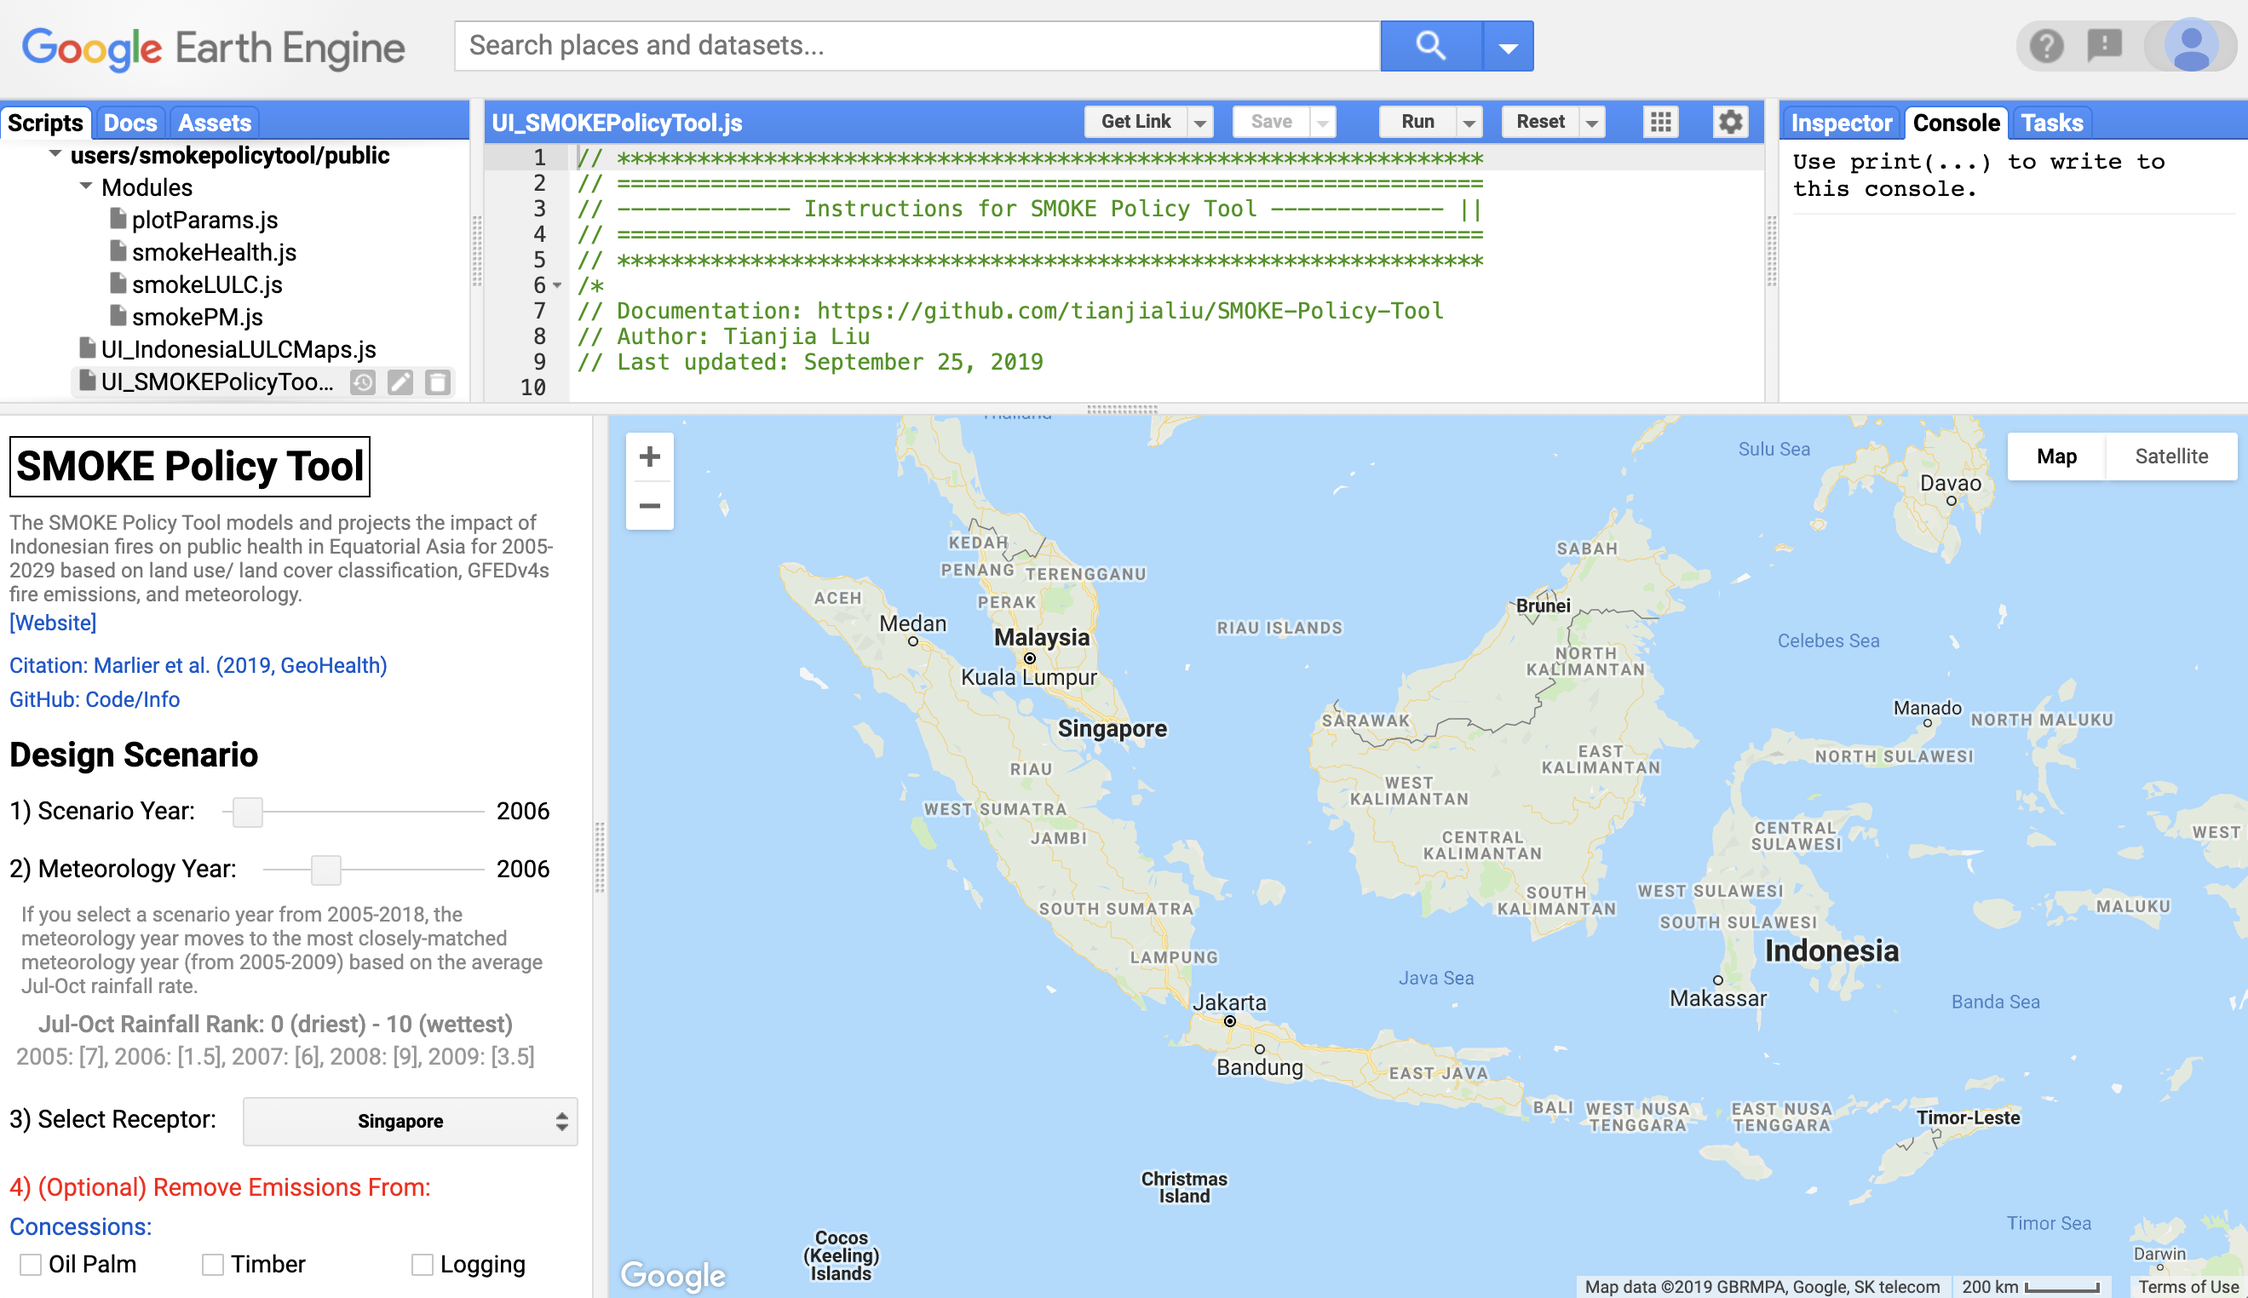
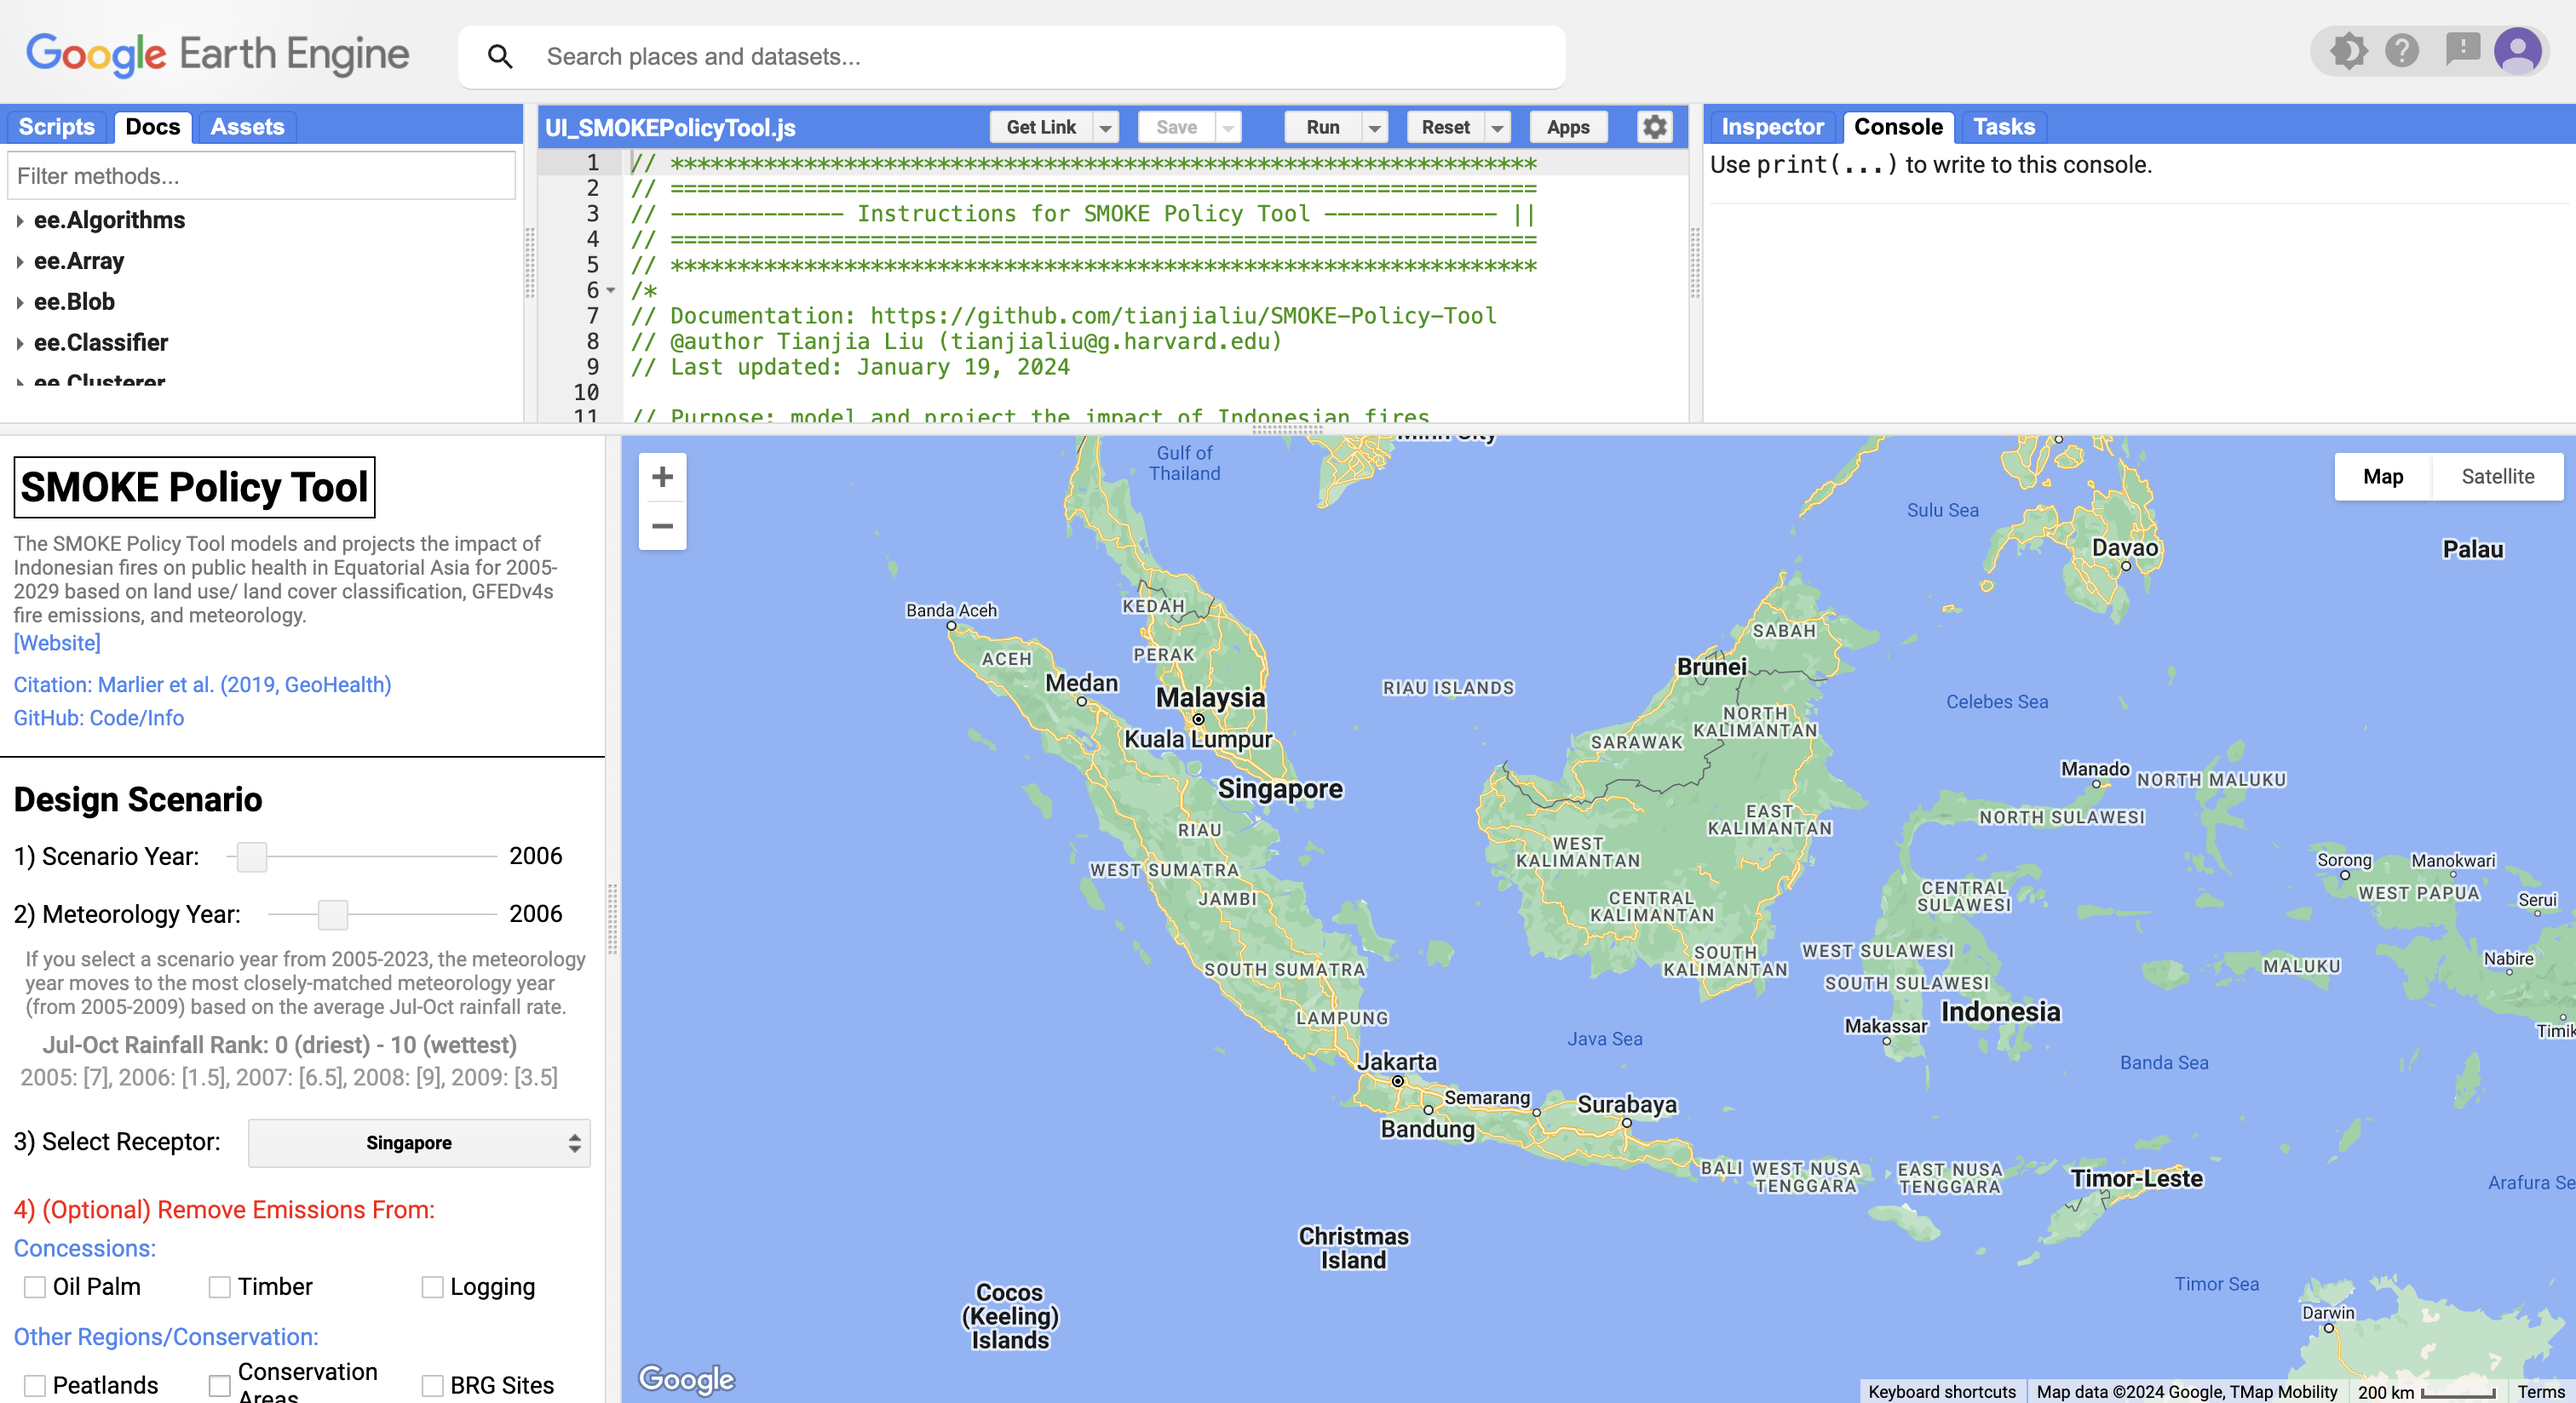
update readme, smoke policy tool meteorology year selector for 2023

diff --git a/gee_public/Modules/plotParams.js b/gee_public/Modules/plotParams.js
@@ -19,7 +19,7 @@ exports.yearPanel = function() {
   var githubRepoLabel = ui.Label('GitHub: Code/Info', {margin: '0px 0px 5px 8px', fontSize: '12.5px', color: '#5886E8'}, 'https://github.com/tianjialiu/SMOKE-Policy-Tool');
 
   var headDivider = ui.Panel(ui.Label(),ui.Panel.Layout.flow('horizontal'),
-    {margin: '10px 0px 5px 0px',height:'1.25px',border:'0.75px solid black',stretch:'horizontal'});
+    {margin: '10px 0px 5px 0px',height:'1px',border:'0.75px solid black',stretch:'horizontal'});
   
   var inputYearSectionLabel = ui.Label('Design Scenario', {margin: '8px 8px 5px 8px', fontWeight: 'bold', fontSize: '20px'});
   var inputYearLabel = ui.Label('1) Scenario Year:', {fontSize: '14.5px'});
@@ -34,7 +34,7 @@ exports.yearPanel = function() {
   var metYearSlider = ui.Slider({min: 2005, max: 2009, value: 2006, step: 1});
   metYearSlider.style().set('stretch', 'horizontal');
   
-  var metYearMessage = ui.Label('If you select a scenario year from 2005-2022, the meteorology year moves to the most closely-matched meteorology year (from 2005-2009) based on the average Jul-Oct rainfall rate.',
+  var metYearMessage = ui.Label('If you select a scenario year from 2005-2023, the meteorology year moves to the most closely-matched meteorology year (from 2005-2009) based on the average Jul-Oct rainfall rate.',
     {margin: '2px 8px 6px 15px', color: '#888', fontSize: '12px'});
   var metYearDescription = ui.Label('Jul-Oct Rainfall Rank: 0 (driest) - 10 (wettest)',
     {margin: '1px 0px 0px 25px', color: '#888', fontSize: '13.8px', fontWeight:'410'});
@@ -230,7 +230,7 @@ var continuousLegend = function(map, title, colPal, minVal,
 
 exports.legendPanel = function(map, TS1Label, TS2Label) {
   var footDivider = ui.Panel(ui.Label(),ui.Panel.Layout.flow('horizontal'),
-    {margin: '0px 0px 18px 0px',height:'1.25px',border:'0.75px solid black',stretch:'horizontal'});
+    {margin: '0px 0px 18px 0px',height:'1px',border:'0.75px solid black',stretch:'horizontal'});
   var legendLabel = ui.Label('Legend', {fontWeight: 'bold', fontSize: '20px', margin: '-3px 8px 8px 8px'});
 
   return ui.Panel([

diff --git a/gee_public/UI_SMOKEPolicyTool.js b/gee_public/UI_SMOKEPolicyTool.js
@@ -6,7 +6,7 @@
 /*
 // Documentation: https://github.com/tianjialiu/SMOKE-Policy-Tool
 // @author Tianjia Liu (tianjialiu@g.harvard.edu)
-// Last updated: April 15, 2023
+// Last updated: January 19, 2024
 
 // Purpose: model and project the impact of Indonesian fires
 // on public health in Equatorial Asia for 2005-2029 based on

diff --git a/gee_public/Modules/smokePM.js b/gee_public/Modules/smokePM.js
@@ -508,5 +508,6 @@ exports.closestMetYear = {
   2019: 2006,
   2020: 2008,
   2021: 2008,
-  2022: 2008
+  2022: 2008,
+  2023: 2009
 };
